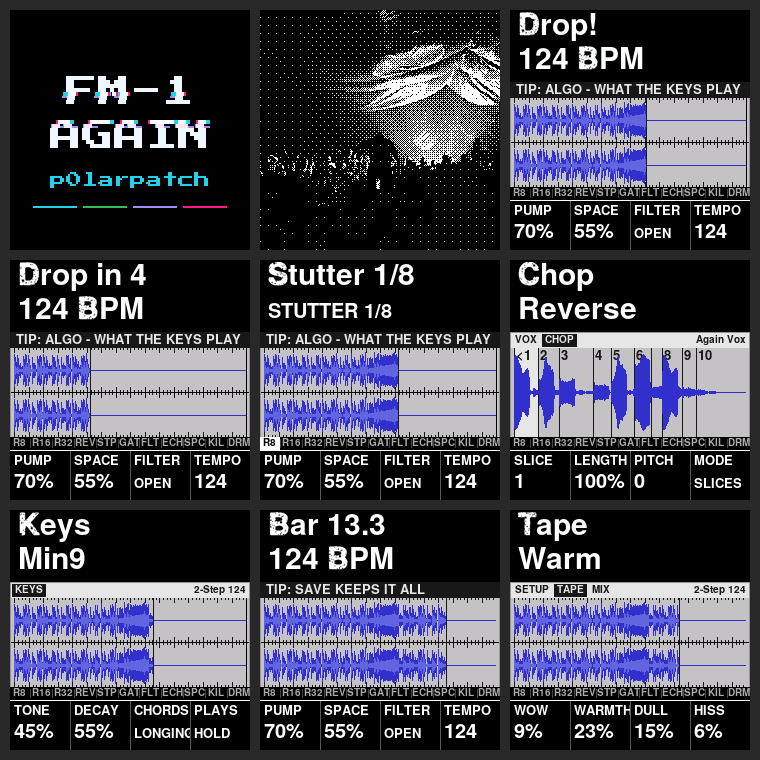
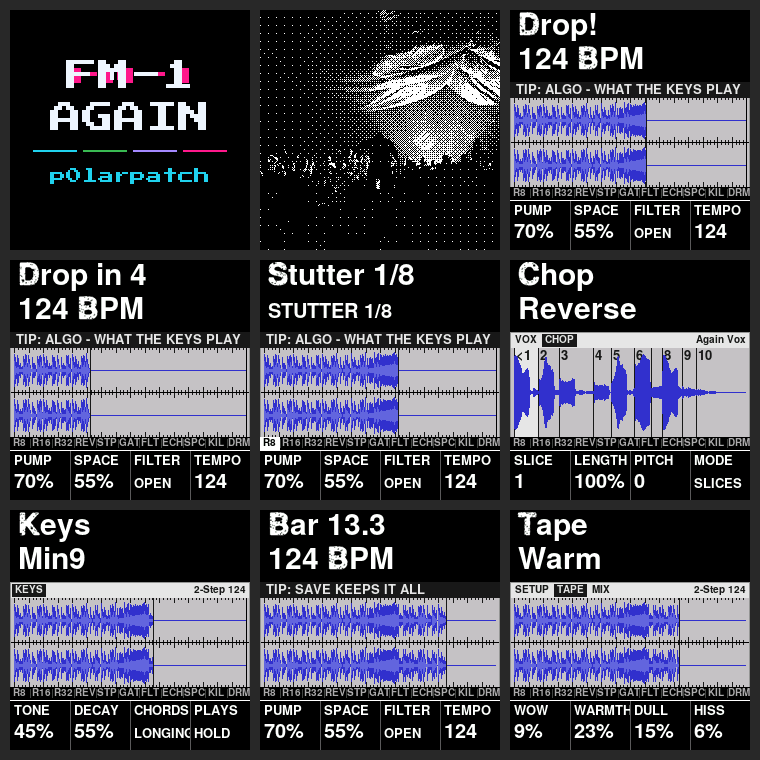
The boot screen: the glitch around the letters, as BlueWatch's CONFIG title
The letters stand whole; three ghosts of the title (ice, plasma, violet), shifted
sideways, are cut into view as bands on cycles of 2.6, 3.1 and 4.3 s (BlueWatch's
mark-a/b/c), torn at random in the storm. The four lines under the title, p0larpatch
under them.

Changed region(s): [[0.0605, 0.0605, 0.2724, 0.2724]]

diff --git a/app/boot.h b/app/boot.h
@@ -1,40 +1,46 @@
 /* SPDX-License-Identifier: GPL-3.0-or-later
  * Copyright (C) 2026 PolarPatch */
-/* The boot screen, as Arctic Scream p0larpatch's (its ui.c ui_boot: the same storm, tears, light and timing): FM-1 and
- * AGAIN in the pixfont at four times its size come out of the dark in a storm of torn pixel rows that settles into
- * the banner's glitch (some rows of each word torn and split into ice, plasma and violet), with a short burst now and
- * then; p0larpatch fades in under it in ice and the four colour lines draw out from their middles. BOOT_MS long, or
- * until the first touch. The pixfont: Press Start 2P (SIL OFL 1.1), app/gen/again_pixfont.h.
+/* The boot screen, after Arctic Scream p0larpatch's (its ui.c ui_boot: the storm, the light, the timing) and its site's
+ * glitching titles: FM-1 and AGAIN in the pixfont at four times its size come out of the dark in a storm of torn rows
+ * that settles; then the letters stand whole and white, and ghosts of them in ice, plasma and violet are torn into view
+ * beside them in thin bands, a few at a time at random moments (the glitch around the letters, never in them). Under
+ * the title the four colour lines draw out from their middles, and p0larpatch fades in under them in ice. BOOT_MS
+ * long, or until the first touch. The pixfont: Press Start 2P (SIL OFL 1.1), app/gen/again_pixfont.h.
  * Part of app.c (the unity build). Main loop only. */
 #include "gen/again_pixfont.h"
 
 #define BOOT_MS 5600u
-#define BOOT_FRAME_MS 55u                       /* a frame of the storm: ~18 a second */
-#define BT_Y1 66                                /* FM-1's top, */
-#define BT_Y2 110                               /* AGAIN's, */
-#define BT_PY 162                               /* p0larpatch's line, */
-#define BT_LY 196                               /* the lines' */
-#define BT_TY (BT_Y1 - 4)                       /* the band the title is drawn in */
-#define BT_TH (BT_Y2 + 36 - BT_TY)
+#define BOOT_FRAME_MS 55u                       /* a frame: ~18 a second */
+#define BT_Y1 50                                /* FM-1's top, */
+#define BT_Y2 92                                /* AGAIN's, */
+#define BT_LY 140                               /* the lines', */
+#define BT_PY 158                               /* p0larpatch's */
+#define BT_TY (BT_Y1 - 2)                       /* the band the title is drawn in */
+#define BT_TH (BT_Y2 + 34 - BT_TY)
 #define BT_ICE RGB(0x22, 0xd3, 0xee)
 #define BT_PLASMA RGB(0xff, 0x1a, 0x8c)
 #define BT_VIOLET RGB(0xa7, 0x8b, 0xfa)
 #define BT_GREEN RGB(0x3f, 0xb9, 0x50)
-typedef struct { int8_t ya, yb, dx; uint8_t k; } bt_slice;   /* a word's rows ya .. yb (px), shifted dx, colour k */
-static const uint16_t BT_K[] = {RGB(0xea, 0xf6, 0xfa), RGB(0xff, 0xff, 0xff), BT_ICE, BT_PLASMA, BT_VIOLET,
-                                RGB(0xff, 0xe4, 0xf3), RGB(0xe2, 0xf7, 0xff)};   /* white, bright, ice, plasma, violet,
-                                                                                * rose, frost */
+static const uint16_t BT_K[] = {RGB(0xea, 0xf6, 0xfa), BT_ICE, BT_PLASMA, BT_VIOLET};   /* white, then the ghosts */
 static const uint16_t BT_LINES[4] = {BT_ICE, BT_GREEN, BT_VIOLET, BT_PLASMA};
-static const bt_slice BT_W1[] = {{16, 20, -3, 2}, {16, 20, 4, 3}, {16, 20, 2, 1}, {20, 22, -4, 4}, {20, 24, 1, 6}};
-static const bt_slice BT_W2[] = {{0, 4, -2, 3}, {0, 4, 4, 2}, {0, 4, 0, 1}, {6, 8, 4, 4}, {4, 8, -3, 2}, {4, 8, -2, 5}};
 static const char *const BT_WORD[2] = {"FM-1", "AGAIN"};
+/* The three ghosts, as PolarPatch BlueWatch's CONFIG title: each a copy of the whole title in its colour, shifted a
+ * little sideways (so it shows beside the letters, never in them), cut into view as one band of the title for a few
+ * hundredths of its own cycle, the three cycles apart so the tears never land together. A band: from, to (% of the
+ * cycle), top, bottom (% of the title's height). */
+#define BT_NG 3
+typedef struct { uint8_t from, to, top, bot; } bt_band;
+static const struct { uint16_t ms; int8_t dx; uint8_t k, n; bt_band b[3]; } BT_GHOST[BT_NG] = {
+    {2600, -7, 1, 3, {{15, 21, 8, 26}, {53, 59, 46, 68}, {86, 92, 70, 88}}},   /* ice */
+    {3100, 7, 2, 3, {{23, 29, 32, 48}, {62, 68, 76, 92}, {94, 99, 12, 32}}},   /* plasma */
+    {4300, 4, 3, 2, {{41, 47, 58, 74}, {79, 85, 20, 38}, {0, 0, 0, 0}}},       /* violet */
+};
 static struct {
     uint8_t on;
     uint32_t t0, at, rnd, k, pk, ln;            /* since; the last frame; the dice; the title's light (0 .. 64);
                                                  * p0larpatch's (0 .. 8); the lines' length */
-    int8_t dx[2][16];                           /* this frame's tears: each word's 2 px bands, their shift */
-    uint8_t gk[2][16];                          /* (and their ghosts' colour) */
-    int torn;
+    int8_t tear[2][16];                         /* the storm: each word's 2 px bands, shifted */
+    struct { int16_t top, bot; int8_t dx; } g[BT_NG];   /* each ghost now: title rows top .. bot (none: top >= bot) */
 } bt;
 
 static uint32_t bt_rnd(uint32_t n)
@@ -49,7 +55,7 @@ static uint16_t bt_mix(uint16_t a, uint16_t b, uint32_t t, uint32_t n)   /* RGB5
     return (uint16_t)(r << 11 | g << 5 | bl);
 }
 static uint16_t bt_c(uint32_t k) { return bt_mix(C_BLACK, BT_K[k], bt.k, 64u); }
-/* a word's rows ya .. yb at canvas row y, shifted dx */
+/* a word's rows ya .. yb (px of its 32) at canvas row y, shifted dx */
 static void bt_rows(int32_t y, const char *s, int32_t ya, int32_t yb, int32_t dx, uint16_t c)
 {
     int32_t n = 0, x, r, b, b0, t, u;
@@ -70,28 +76,21 @@ static void bt_rows(int32_t y, const char *s, int32_t ya, int32_t yb, int32_t dx
         }
     }
 }
-static void bt_word(uint32_t w, int32_t y, const bt_slice *sl, uint32_t n)
-{
-    uint32_t i, b, keep = 0;
-    int32_t dx;
-    for (i = 0; i < n; i++)
-        keep |= (0xFFFFu >> (16 - (sl[i].yb - sl[i].ya + 1) / 2)) << sl[i].ya / 2;
-    for (b = 0; b < 16u; b++) {                 /* the word, but for the banner's torn rows: its bands, torn or not */
-        if (keep >> b & 1u)
-            continue;
-        dx = bt.dx[w][b];
-        if (dx)
-            bt_rows(y, BT_WORD[w], (int32_t)b * 2, (int32_t)b * 2 + 2, dx + (dx > 0 ? 3 : -3), bt_c(bt.gk[w][b]));
-        bt_rows(y, BT_WORD[w], (int32_t)b * 2, (int32_t)b * 2 + 2, dx, bt_c(dx ? 1u : 0u));
-    }
-    for (i = 0; i < n; i++)                     /* the banner's torn rows, behind first */
-        bt_rows(y, BT_WORD[w], sl[i].ya, sl[i].yb, sl[i].dx + bt.dx[w][sl[i].ya / 2], bt_c(sl[i].k));
-}
 static void bt_draw_title(void)
 {
+    uint32_t w, b, i;
+    int32_t y[2] = {BT_Y1 - BT_TY, BT_Y2 - BT_TY};
     cv_begin(240, BT_TH, C_BLACK);
-    bt_word(0, BT_Y1 - BT_TY, BT_W1, sizeof BT_W1 / sizeof BT_W1[0]);
-    bt_word(1, BT_Y2 - BT_TY, BT_W2, sizeof BT_W2 / sizeof BT_W2[0]);
+    for (i = 0; i < BT_NG; i++)                 /* the ghosts behind: only their edges show beside the letters */
+        for (w = 0; w < 2u && bt.g[i].top < bt.g[i].bot; w++) {
+            int32_t a = bt.g[i].top - (y[w] - y[0]), z = bt.g[i].bot - (y[w] - y[0]);   /* (in the word's rows) */
+            a = a < 0 ? 0 : a, z = z > 32 ? 32 : z;
+            if (a < z)
+                bt_rows(y[w], BT_WORD[w], a, z, bt.g[i].dx, bt_c(BT_GHOST[i].k));
+        }
+    for (w = 0; w < 2u; w++)                    /* the letters, whole but for the storm's tears */
+        for (b = 0; b < 16u; b++)
+            bt_rows(y[w], BT_WORD[w], (int32_t)b * 2, (int32_t)b * 2 + 2, bt.tear[w][b], bt_c(0));
     cv_blit(0, BT_TY);
 }
 static void bt_draw_name(void)                  /* p0larpatch: the pixfont at twice its size */
@@ -115,36 +114,43 @@ static void bt_draw_lines(void)                 /* four lines, 44 px, growing fr
         cv_rect(23 + (int32_t)t * 50 + 22 - (int32_t)bt.ln / 2, 0, (int32_t)bt.ln, 2, BT_LINES[t]);
     cv_blit(0, BT_LY);
 }
-/* the boot screen at e ms: the light, the storm's tears (Arctic Scream's bt_state) */
-static void bt_state(uint32_t e)
+/* the boot screen at e ms: the storm dying down, the ghosts on their cycles; 1: the title changed */
+static int bt_state(uint32_t e)
 {
-    static const uint16_t BURST[] = {2750, 3900, 4650, 5200};   /* (short bursts once it settled, 140 ms each) */
-    uint32_t g = 0, i, n, w, b, m;
-    int32_t dx;
+    uint32_t g = 0, i, j, w, b, k0 = bt.k;
+    int32_t th = BT_Y2 + 32 - BT_Y1;            /* the title's height: FM-1, the gap, AGAIN */
+    int changed = 0;
     if (e < 1700u)
-        g = e < 300u ? 64u : 64u - (e - 300u) * 64u / 1400u;   /* the storm, dying down */
-    for (i = 0; i < sizeof BURST / sizeof BURST[0]; i++)
-        if (e >= BURST[i] && e < BURST[i] + 140u)
-            g = 36u;
+        g = e < 300u ? 64u : 64u - (e - 300u) * 64u / 1400u;   /* the storm */
     bt.k = e < 250u ? 0u : e < 1100u ? (e - 250u) * 64u / 850u : 64u;
     if (g && bt_rnd(80) < g)
         bt.k = bt.k * (1u + bt_rnd(3)) / 4u;    /* (it flickers in the storm) */
-    bt.torn = 0;
-    for (w = 0; w < 2u; w++)
-        for (b = 0; b < 16u; b++)
-            bt.torn |= bt.dx[w][b], bt.dx[w][b] = 0;
-    n = g ? 1u + g * 8u / 64u : bt_rnd(14) == 0;   /* (settled: a band jumps a pixel or two now and then) */
-    m = g ? 3u + g * 22u / 64u : 2u;
-    for (i = 0; i < n; i++) {
-        w = bt_rnd(2), b = bt_rnd(16), dx = (int32_t)bt_rnd(2u * m + 1u) - (int32_t)m;
-        bt.dx[w][b] = (int8_t)dx, bt.gk[w][b] = (uint8_t)(2u + bt_rnd(3));
-        if (b < 15u && bt_rnd(2))
-            bt.dx[w][b + 1] = (int8_t)dx, bt.gk[w][b + 1] = bt.gk[w][b];
-        bt.torn = 1;
+    changed |= bt.k != k0;
+    for (w = 0; w < 2u; w++)                    /* the storm's tears in the letters: gone once it settled */
+        for (b = 0; b < 16u; b++) {
+            int8_t t = 0;
+            if (g && bt_rnd(64) < g / 3u)
+                t = (int8_t)((int32_t)bt_rnd(2u * (2u + g / 4u) + 1u) - (int32_t)(2u + g / 4u));
+            changed |= t != bt.tear[w][b];
+            bt.tear[w][b] = t;
+        }
+    for (i = 0; i < BT_NG; i++) {               /* the ghosts: where each one's cycle is */
+        uint32_t pc = (e % BT_GHOST[i].ms) * 100u / BT_GHOST[i].ms;
+        int16_t top = 0, bot = 0;
+        int8_t dx = (int8_t)(BT_GHOST[i].dx * (g ? 3 : 1));   /* (thrown further in the storm) */
+        for (j = 0; j < BT_GHOST[i].n; j++)
+            if (pc >= BT_GHOST[i].b[j].from && pc < BT_GHOST[i].b[j].to)
+                top = (int16_t)(th * BT_GHOST[i].b[j].top / 100), bot = (int16_t)(th * BT_GHOST[i].b[j].bot / 100);
+        if (g && bt_rnd(3) == 0) {              /* (the storm tears them in at random too) */
+            top = (int16_t)bt_rnd((uint32_t)th - 6u);
+            bot = (int16_t)(top + 4 + (int16_t)bt_rnd(10));
+        }
+        changed |= top != bt.g[i].top || bot != bt.g[i].bot || dx != bt.g[i].dx;
+        bt.g[i].top = top, bt.g[i].bot = bot, bt.g[i].dx = dx;
     }
-    bt.torn |= g != 0;
     bt.pk = e < 1300u ? 0u : e < 2100u ? (e - 1300u) * 8u / 800u : 8u;
-    bt.ln = e < 2000u ? 0u : e < 2800u ? (e - 2000u) * 44u / 800u : 44u;
+    bt.ln = e < 1000u ? 0u : e < 1800u ? (e - 1000u) * 44u / 800u : 44u;
+    return changed;
 }
 static void boot_start(uint32_t now)
 {
@@ -165,8 +171,7 @@ static int boot_frame(uint32_t now)
     if (now - bt.at < BOOT_FRAME_MS)
         return 1;
     bt.at = now;
-    bt_state(now - bt.t0);
-    if (bt.torn || bt.k != k)
+    if (bt_state(now - bt.t0) || bt.k != k)
         bt_draw_title();
     if (bt.pk != pk)
         bt_draw_name();
